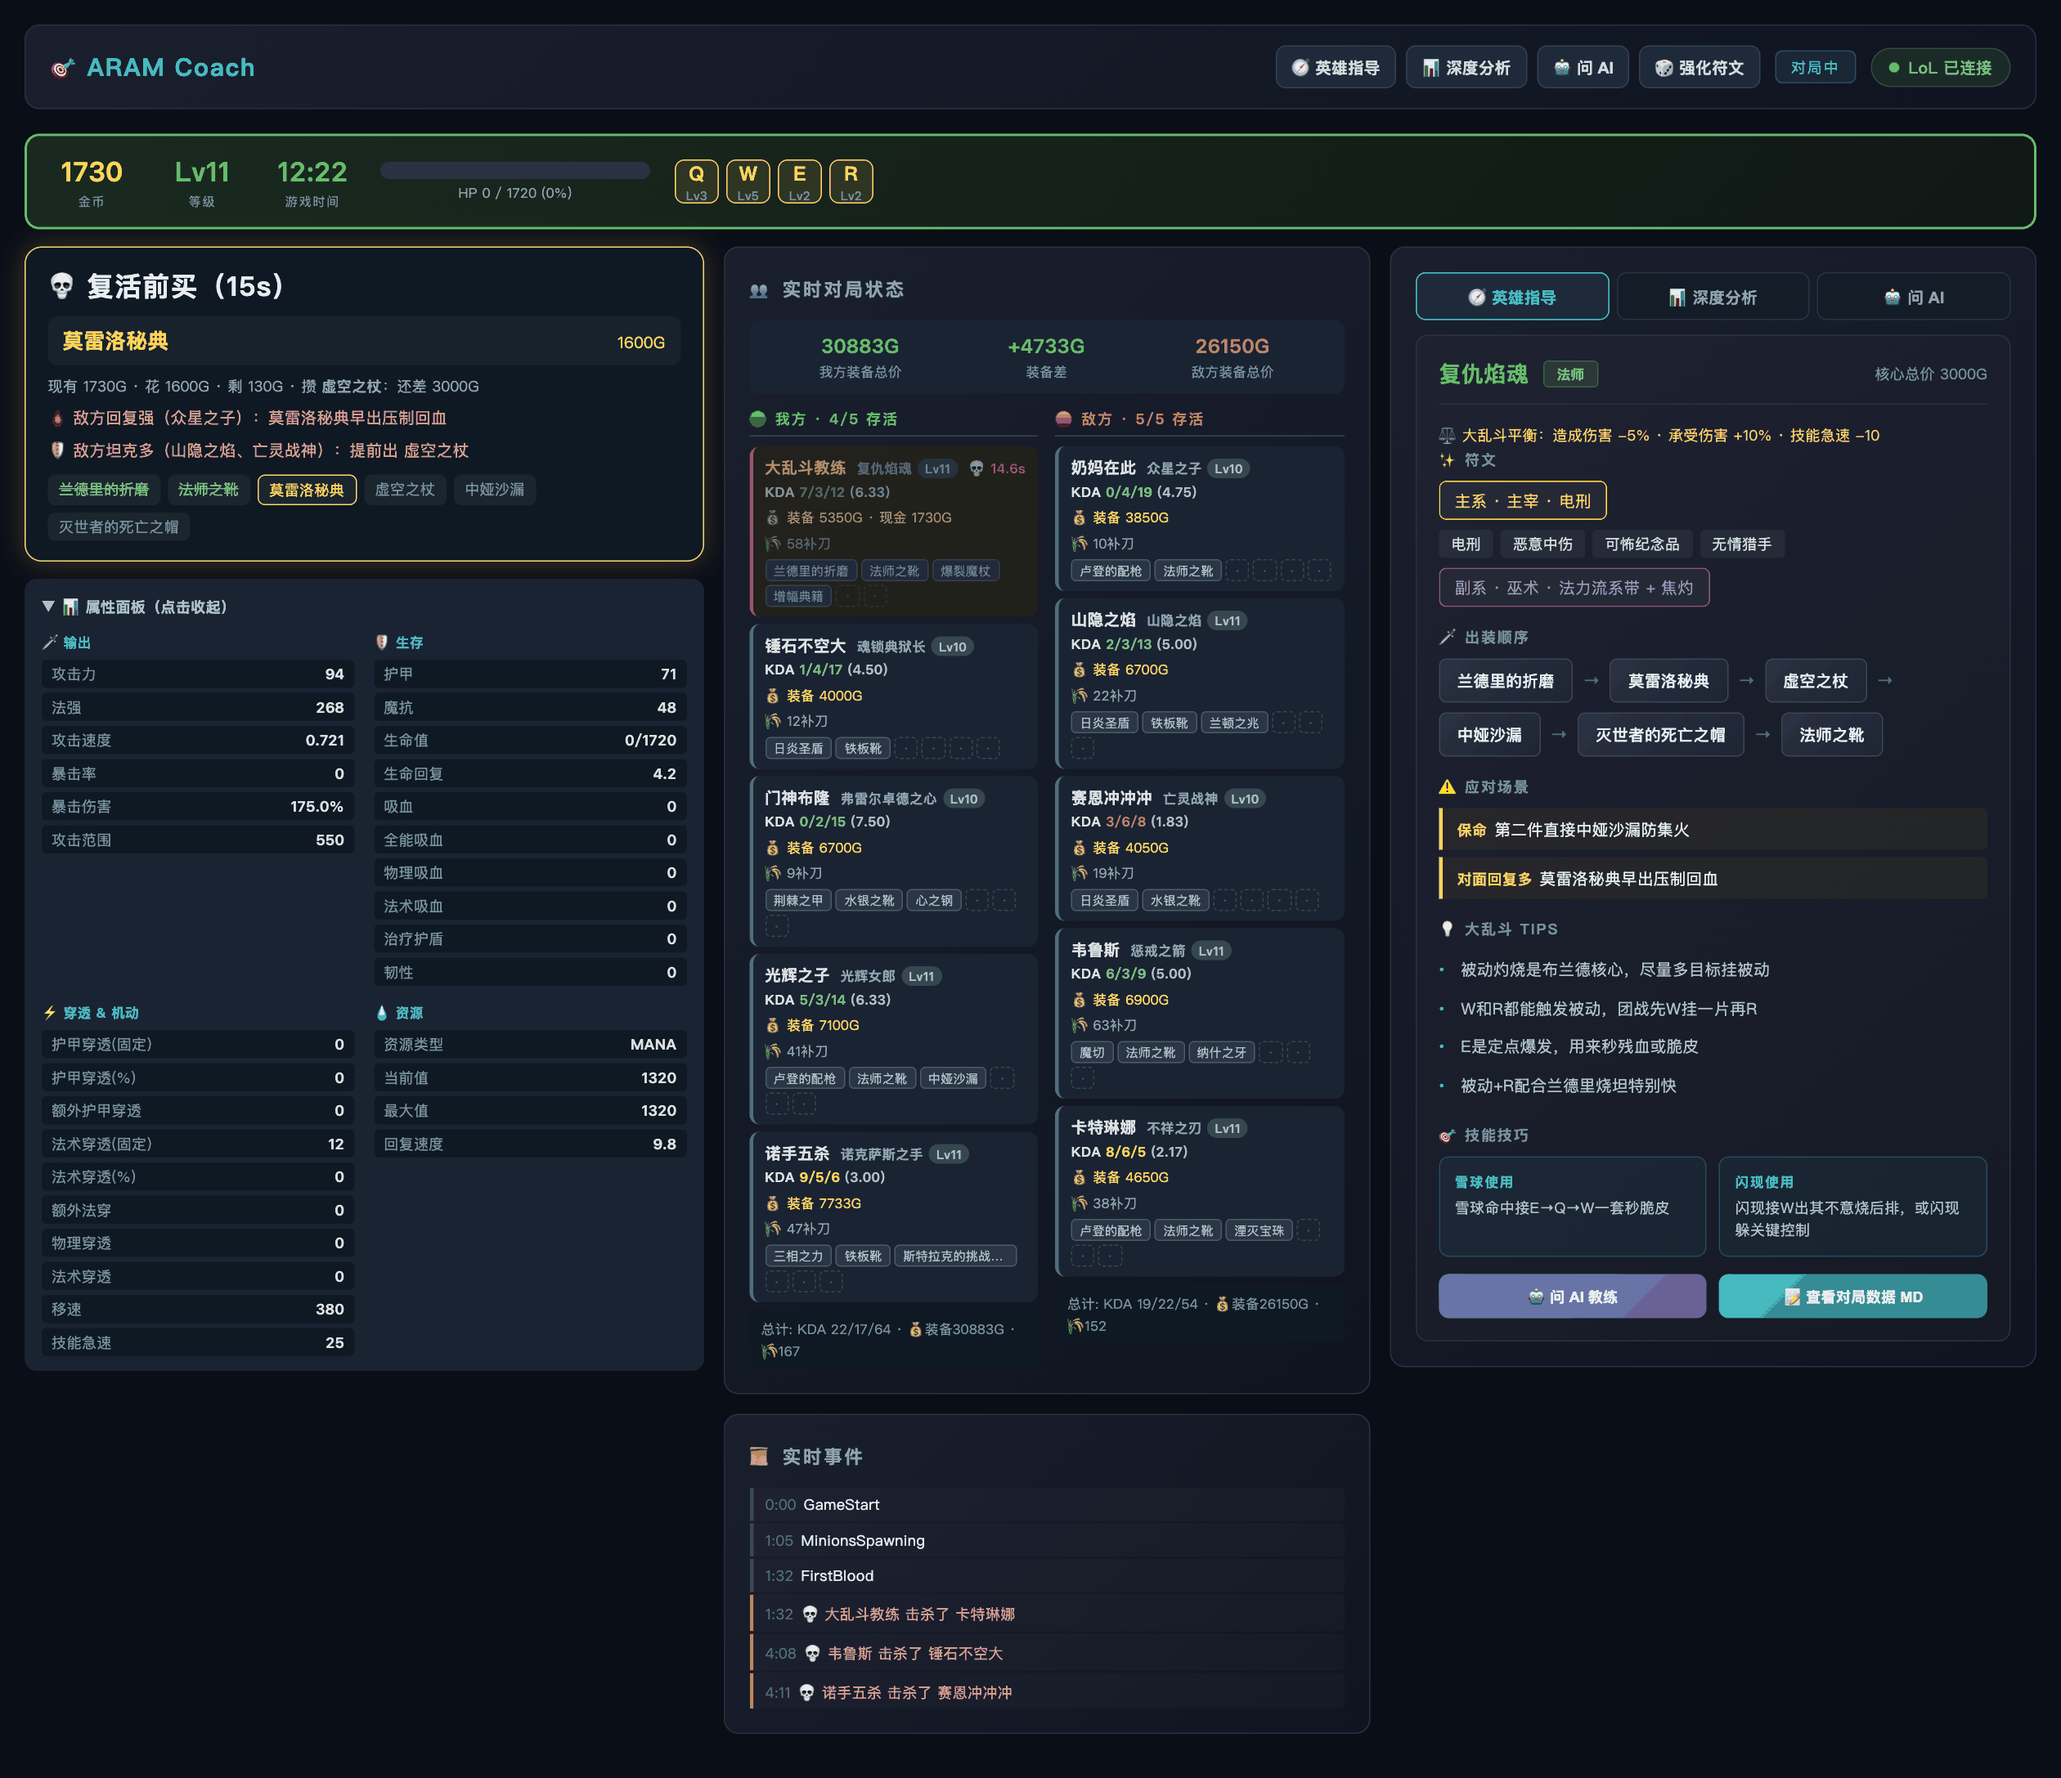
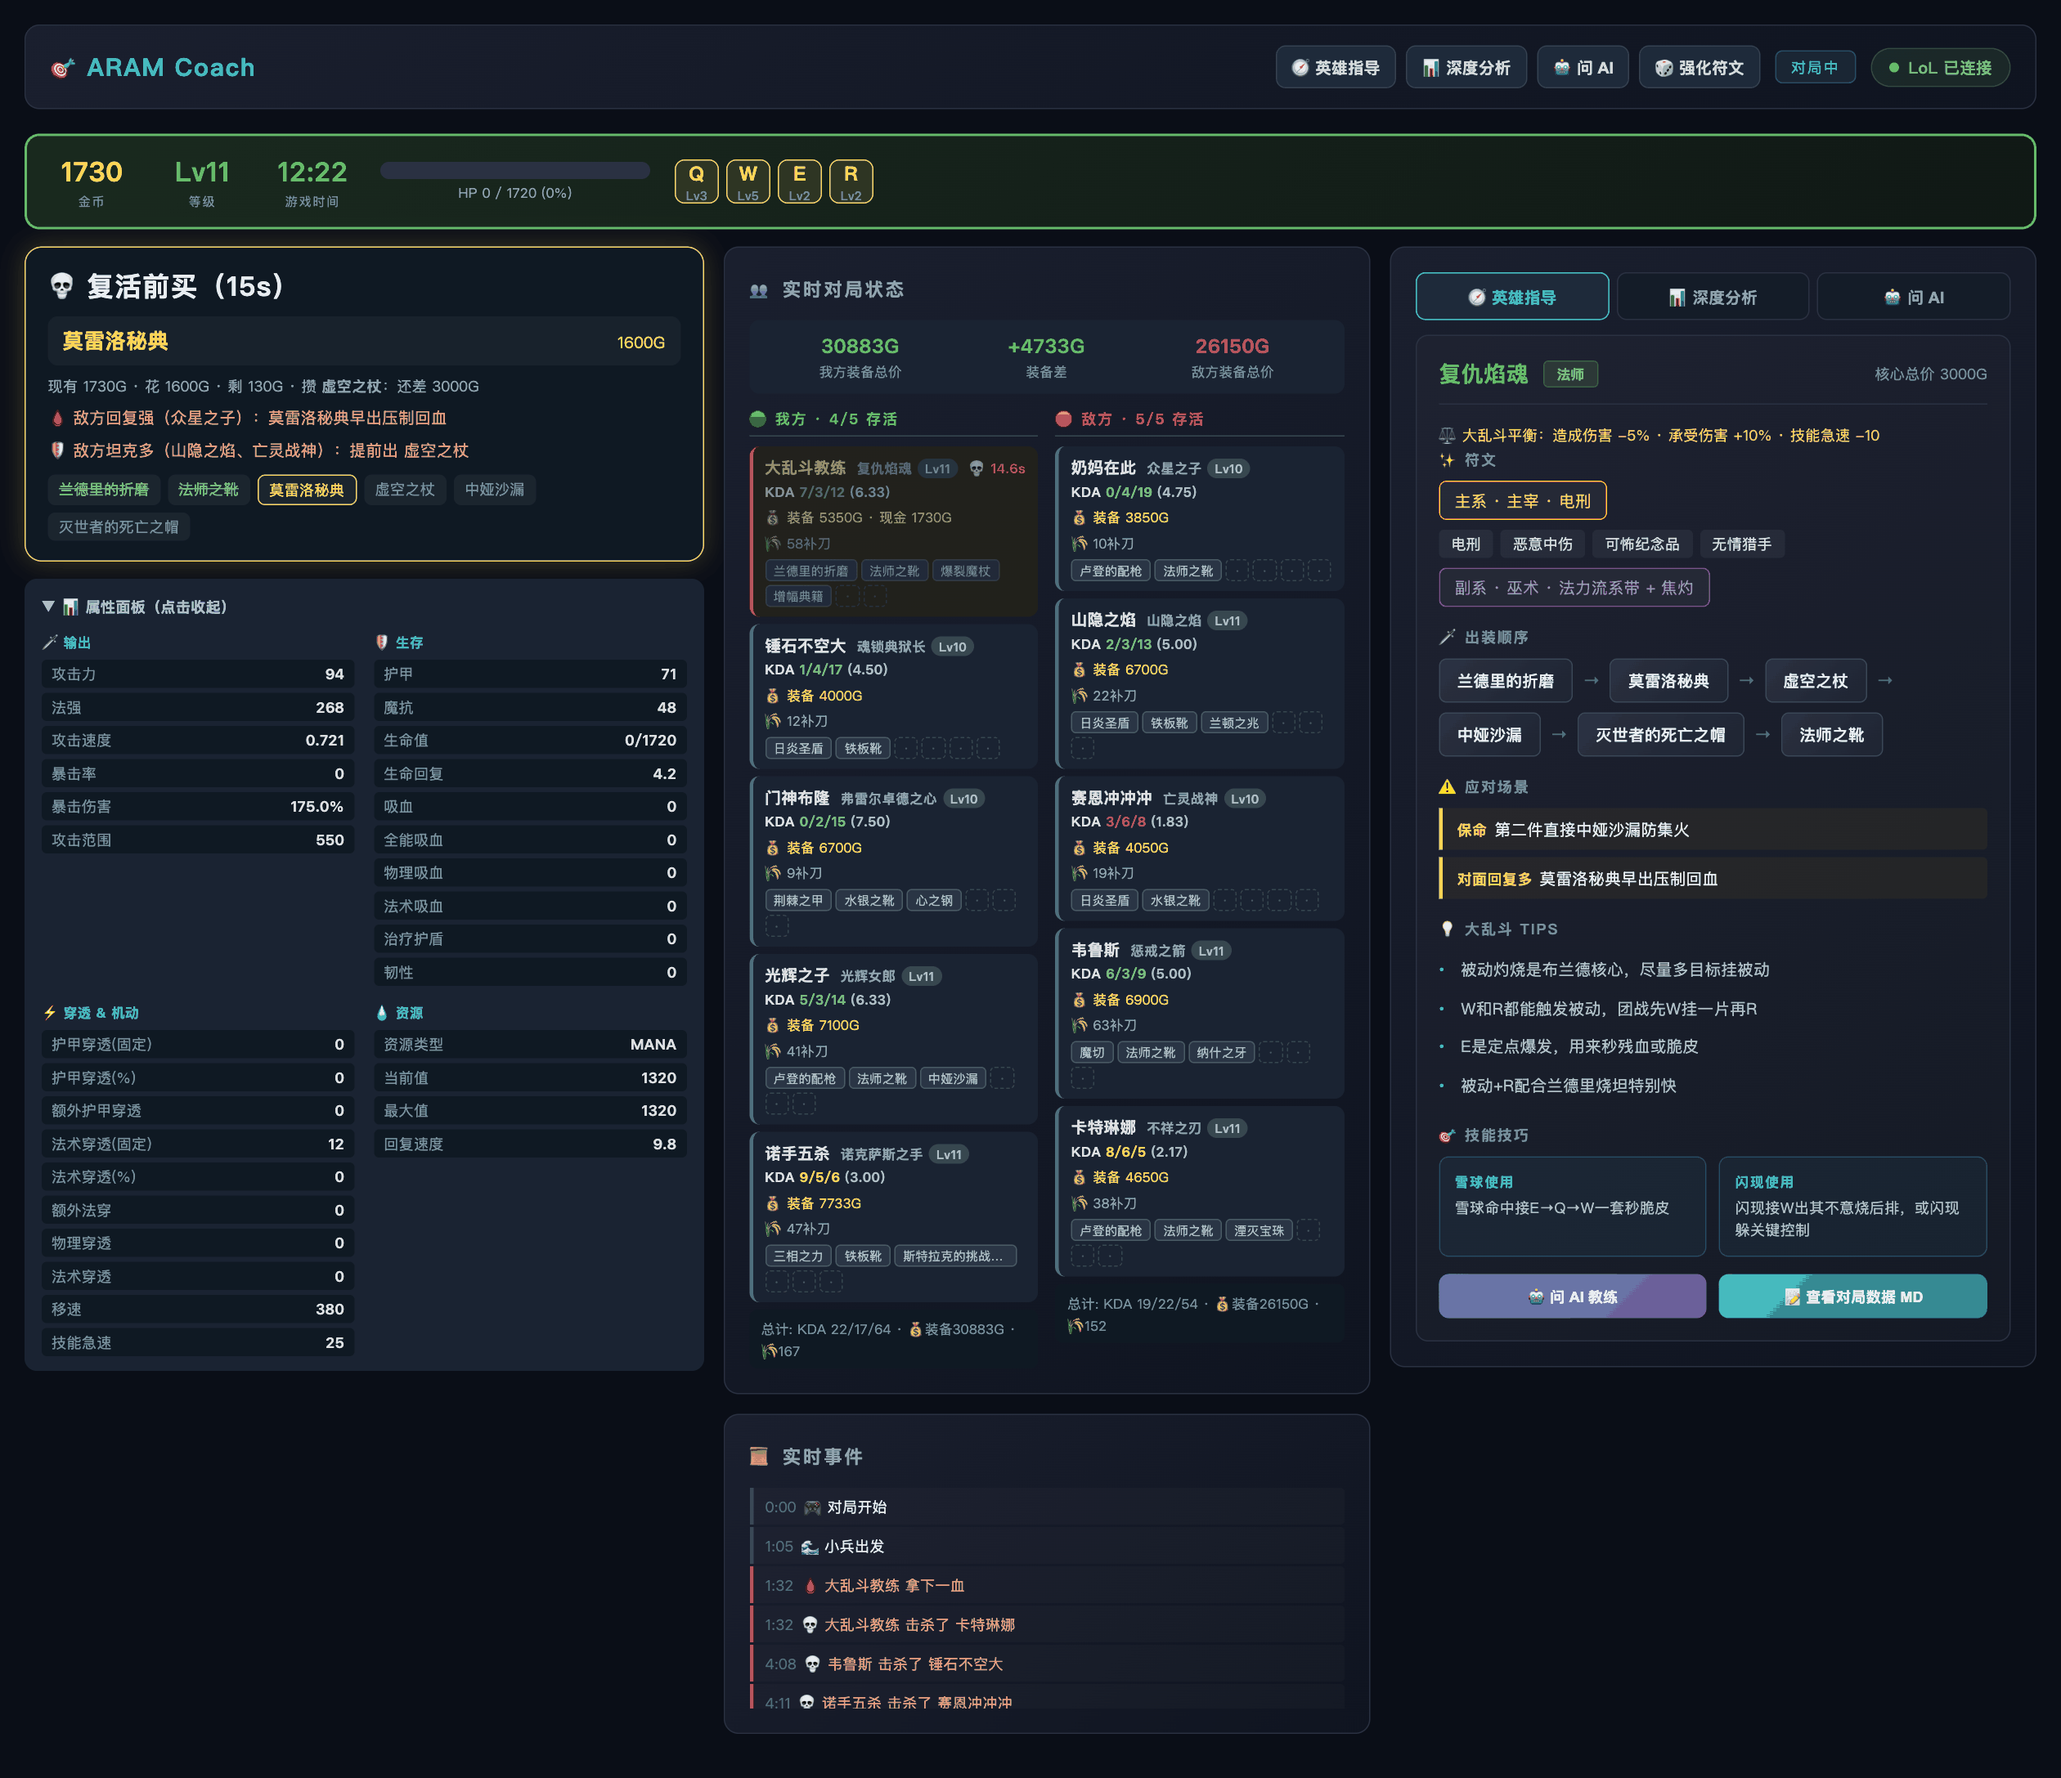
fix: 事件流显示中文；阵亡时深度分析不再误判劣势
事件流
- GameStart / MinionsSpawning / FirstBlood / FirstBrick / Ace / 水晶重生 / GameEnd 显示中文，
  未列出的事件名仍原样显示

本地规则深度分析（未配置 LLM 时）
- 自己阵亡时按复活后的局面判断：不按 0% 血量扣分，自己算存活；
  原来装备领先 4733G 时也会判成"小劣势 · 避战发育"
- 顶部显示"阵亡中（Xs 后复活）"，结论下提示先照购物卡买装备
- "法师脆皮"提示的血量阈值按百分数比较（原来拿 0~100 的 hp_pct 和 0.5 比，只有阵亡时触发）
- 游戏时间秒数补零（12:5 → 12:05）

其他
- run-aram-coach 模拟数据加一条首座防御塔事件
- README 对局截图更新为中文事件流

Changed region(s): [[0.3714, 0.8317, 0.4952, 0.9549], [0.5881, 0.1848, 0.619, 0.2156]]

diff --git a/frontend/index.html b/frontend/index.html
@@ -1631,6 +1631,15 @@ function renderLiveTeamPanel(lcd) {
     </div>`;
 }
 
+// LCD 里不带人名的事件；没列出的事件名原样显示
+const EVENT_LABELS = {
+    GameStart: '🎮 对局开始',
+    MinionsSpawning: '🌊 小兵出发',
+    InhibRespawningSoon: '💎 水晶即将重生',
+    InhibRespawned: '💎 水晶已重生',
+    GameEnd: '🏁 对局结束',
+};
+
 function renderEventStream(events) {
     const recent = events.slice(-12);
     const html = recent.map(e => {
@@ -1661,6 +1670,17 @@ function renderEventStream(events) {
         } else if (name === 'HeraldKill') {
             cls = 'edragon';
             text = `🦅 ${esc(e.KillerName)} 击杀峡谷先锋`;
+        } else if (name === 'FirstBlood') {
+            cls = 'ekill';
+            text = `🩸 ${esc(e.Recipient)} 拿下一血`;
+        } else if (name === 'FirstBrick') {
+            cls = 'eturret';
+            text = `🏰 ${esc(e.KillerName)} 拿下首座防御塔`;
+        } else if (name === 'Ace') {
+            cls = 'ekill';
+            text = `💥 ${esc(e.Acer)} 完成团灭`;
+        } else if (EVENT_LABELS[name]) {
+            text = EVENT_LABELS[name];
         } else {
             text = esc(name);
         }

diff --git a/app/main.py b/app/main.py
@@ -1308,11 +1308,14 @@ def _deep_analysis(state: Dict[str, Any]) -> str:
     level = active.get("level") or (my_info.get("level", "?") if my_info else "?")
     phase = state.get("phase", "Unknown")
     hp_pct = stats.get("hp_pct", 0)
+    # 自己阵亡时按复活后的局面判断：血量 0% 不算数，自己也算存活（否则会把"在等复活"判成劣势）
+    me_dead = bool(my_info and my_info.get("is_dead"))
+    respawn = round((my_info or {}).get("respawn_timer") or 0)
 
     my_team_gold = sum(p.get("item_gold", 0) for p in my_team)
     enemy_team_gold = sum(p.get("item_gold", 0) for p in enemy_team)
     gold_diff = my_team_gold - enemy_team_gold
-    my_alive = sum(1 for p in my_team if not p.get("is_dead", False))
+    my_alive = sum(1 for p in my_team if p.get("is_me") or not p.get("is_dead", False))
     enemy_alive = sum(1 for p in enemy_team if not p.get("is_dead", False))
 
     kb = KNOWLEDGE_BASE
@@ -1332,7 +1335,8 @@ def _deep_analysis(state: Dict[str, Any]) -> str:
 
     lines.append("=" * 50)
     lines.append(f"🎮 乱斗深度分析 · {my_champ} Lv.{level}")
-    lines.append(f"⏱ {m}:{s} · 💰 {gold}G · ❤ HP {hp_pct:.0f}%")
+    hp_text = f"💀 阵亡中（{respawn}s 后复活）" if me_dead else f"❤ HP {hp_pct:.0f}%"
+    lines.append(f"⏱ {m}:{s:02d} · 💰 {gold}G · {hp_text}")
     if my_tier:
         lines.append(f"⭐ 英雄定位: {my_tier} {my_role}")
     else:
@@ -1377,12 +1381,13 @@ def _deep_analysis(state: Dict[str, Any]) -> str:
         adv_score += 1
         reasons.append(f"T0 英雄自带强度加成")
 
-    if hp_pct < 30:
-        adv_score -= 2
-        reasons.append(f"血量极低 ({hp_pct:.0f}%)，容易被秒")
-    elif hp_pct < 50:
-        adv_score -= 1
-        reasons.append(f"血量偏低 ({hp_pct:.0f}%)，谨慎操作")
+    if not me_dead:
+        if hp_pct < 30:
+            adv_score -= 2
+            reasons.append(f"血量极低 ({hp_pct:.0f}%)，容易被秒")
+        elif hp_pct < 50:
+            adv_score -= 1
+            reasons.append(f"血量偏低 ({hp_pct:.0f}%)，谨慎操作")
 
     if adv_score >= 4:
         verdict = "🟢 大优势 · 主动开团"
@@ -1400,6 +1405,8 @@ def _deep_analysis(state: Dict[str, Any]) -> str:
         lines.append(f"  • {r}")
     if not reasons:
         lines.append("  • 无明显优劣势，看操作")
+    if me_dead:
+        lines.append("  • 你正在等复活，以上按复活后的局面判断；现在先照购物卡买装备")
     lines.append("")
 
     # 2. 属性面板解读
@@ -1424,7 +1431,7 @@ def _deep_analysis(state: Dict[str, Any]) -> str:
             panel_tips.append("法强偏低，优先堆法强（卢登/永霜/暗夜收割者）")
         if stats.get('magic_pen_flat', 0) + stats.get('magic_pen_pct', 0) < 0.1:
             panel_tips.append("法穿不足，对面有魔抗时需要法穿棒或虚空之杖")
-        if stats.get('hp_pct', 1) < 0.5:
+        if not me_dead and hp_pct < 50:  # hp_pct 是百分数（0~100）
             panel_tips.append("法师脆皮，注意站位，别被雪球拉脸")
     elif my_role in ("射手",):
         if stats.get('attack_speed', 0) < 1.2:

diff --git a/.claude/skills/run-aram-coach/mock_run.py b/.claude/skills/run-aram-coach/mock_run.py
@@ -102,6 +102,7 @@ def lcd_data():
         {"EventName": "ChampionKill", "EventTime": 248.1, "KillerName": "韦鲁斯", "VictimName": "锤石不空大"},
         {"EventName": "ChampionKill", "EventTime": 251.7, "KillerName": "诺手五杀", "VictimName": "赛恩冲冲冲"},
         {"EventName": "Multikill", "EventTime": 253.0, "KillerName": "诺手五杀", "KillStreak": 2},
+        {"EventName": "FirstBrick", "EventTime": 402.6, "KillerName": "诺手五杀"},
         {"EventName": "TurretKilled", "EventTime": 402.6, "KillerName": "诺手五杀"},
         {"EventName": "ChampionKill", "EventTime": 571.3, "KillerName": ME, "VictimName": "奶妈在此"},
         {"EventName": "ChampionKill", "EventTime": 705.9, "KillerName": "光辉之子", "VictimName": "韦鲁斯"},
